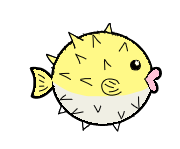
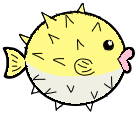
プレイヤーのrectの初期化を画像サイズに合わせて自動化

diff --git a/Shirous/Player_Fish.cpp b/Shirous/Player_Fish.cpp
@@ -177,7 +177,7 @@ void Fish::Draw()const
 
 	String texture_name = U"player_" + name;
 
-	TextureAsset(texture_name).draw(rect.x - 10, rect.y - 20);
+	TextureAsset(texture_name).draw(rect.x - rect.w/18, rect.y - rect.h / 18);
 
 
 
@@ -193,8 +193,8 @@ void Fish::DrawFrame()const {
 void Fish::first() {
 	rect.x = 300;
 	rect.y = 300;
-	rect.w = 160;
-	rect.h = 30;
+	rect.w = Texture(U"data/image/fish/player/シラス.png").width() * 0.9;
+	rect.h = Texture(U"data/image/fish/player/シラス.png").height() * 0.9;
 
 	speed = mySpeed;
 }
@@ -205,7 +205,12 @@ void Fish::first(RectF r) {
 
 }
 void Fish::first(String name, RectF r) {
-	rect = r;
+	String texture_name = U"player_" + name;
+
+	rect.x = r.x;
+	rect.y = r.y;
+	rect.w = TextureAsset(texture_name).width()*0.9;
+	rect.h = TextureAsset(texture_name).height()*0.9;
 
 	speed = mySpeed;
 }
